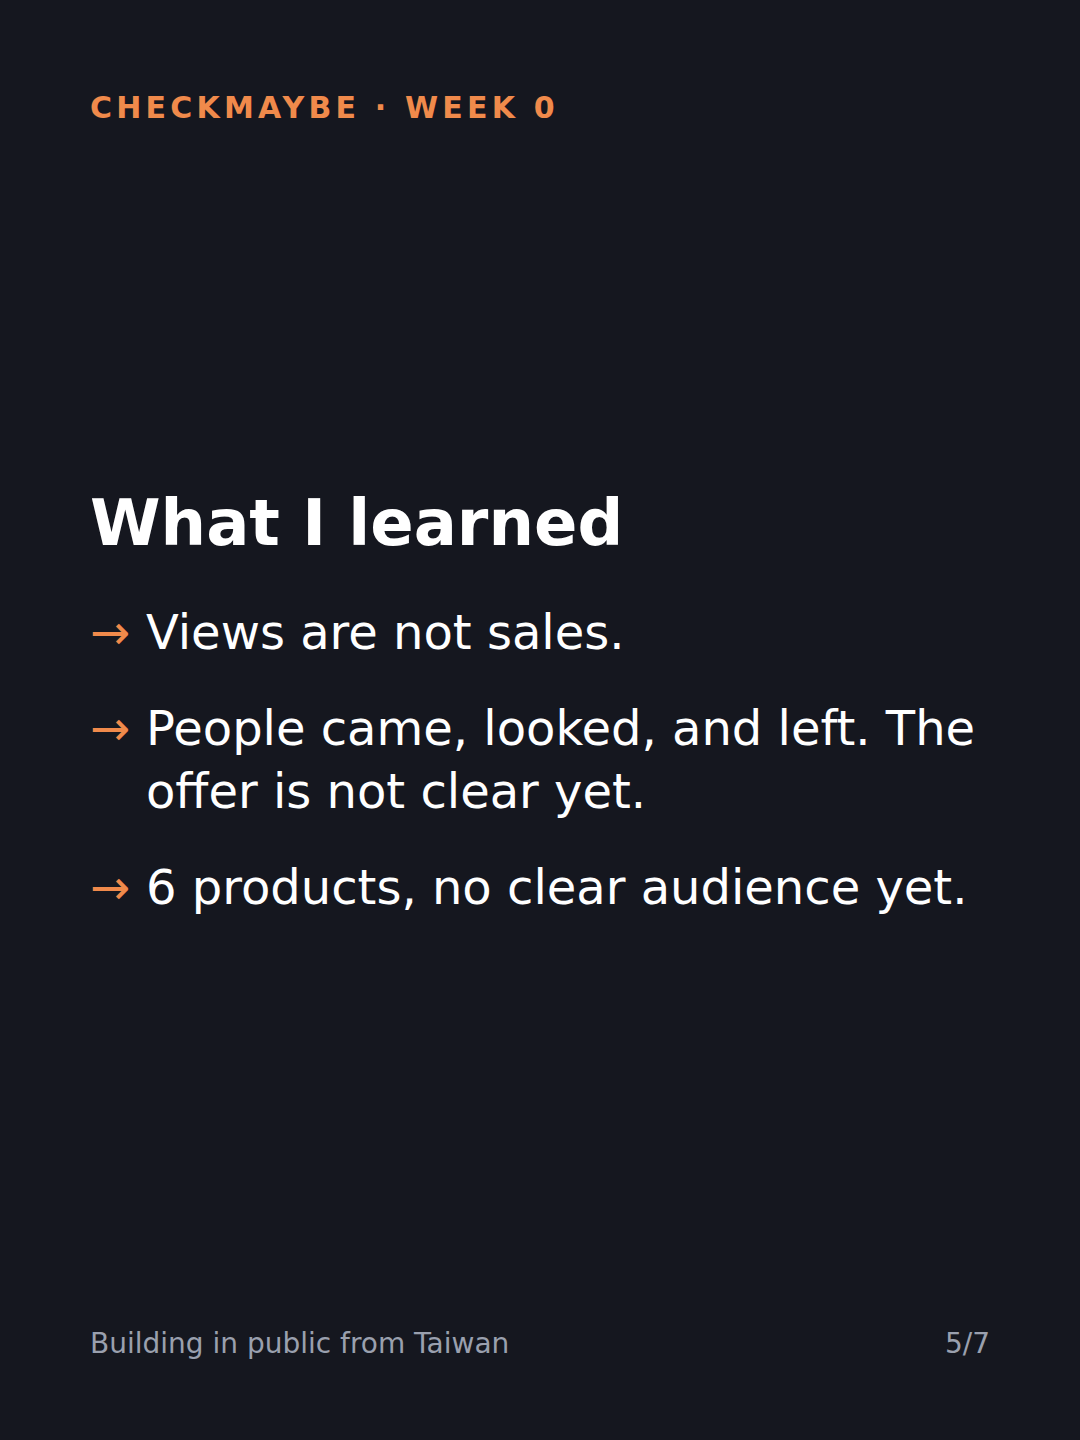
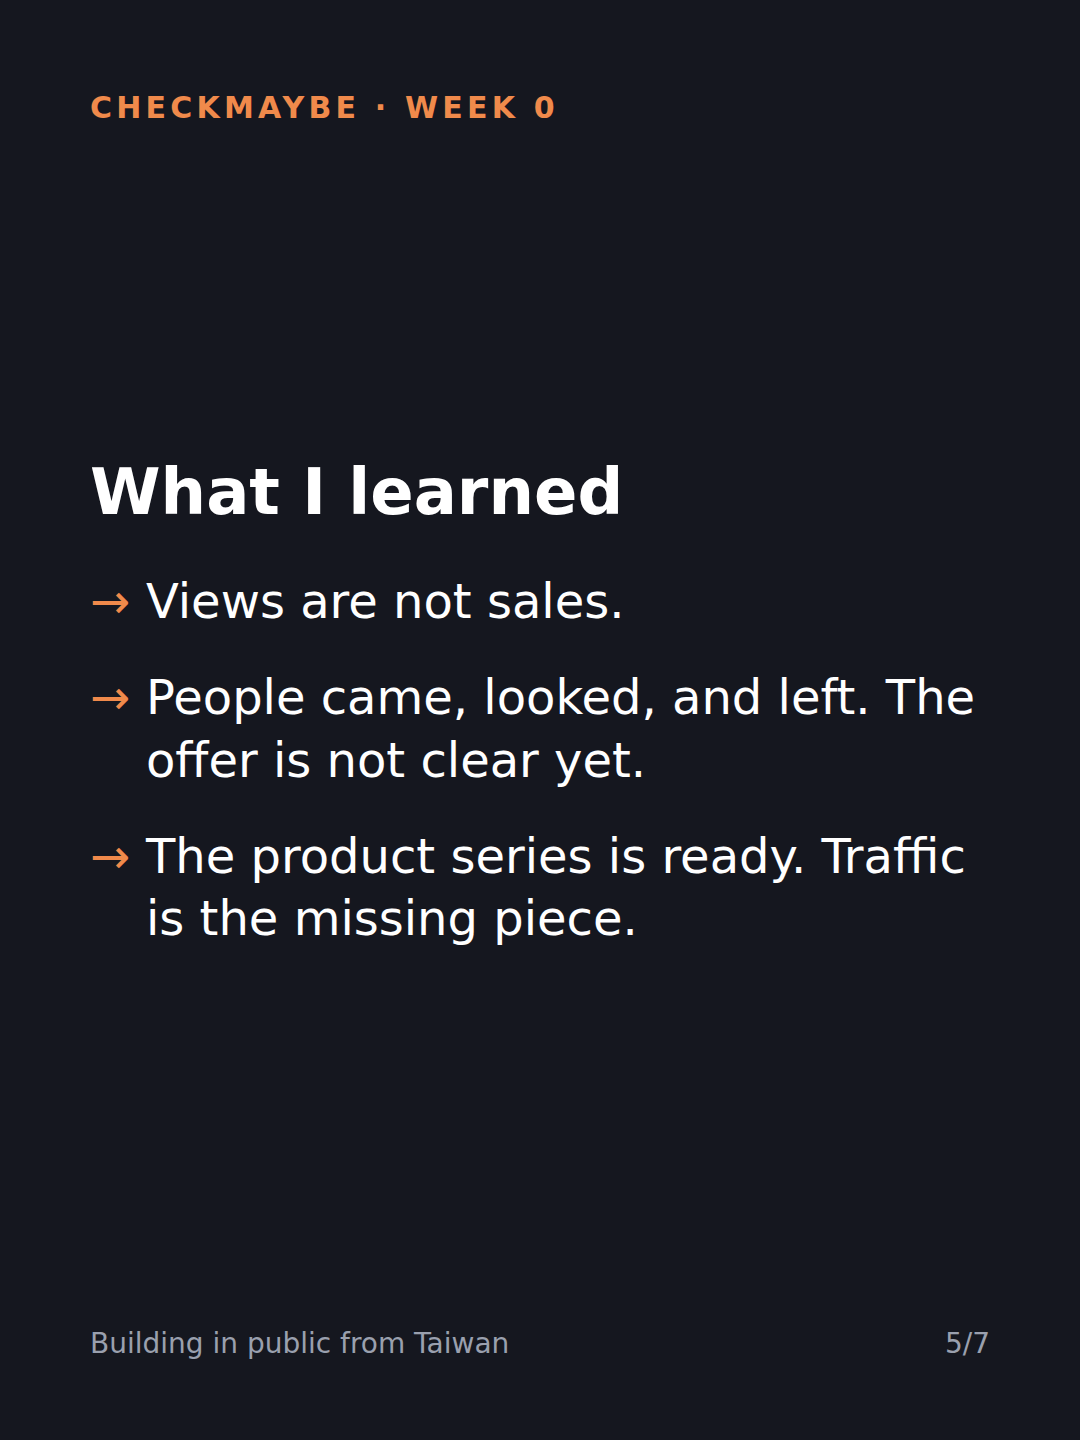
Week 0 carousel: say traffic, not product count, is the gap
Claude-Session: https://claude.ai/code/session_01C31xGpXxLcjXH3oTDRifkH

Changed region(s): [[0.0917, 0.4062, 0.8861, 0.6562], [0.0917, 0.3125, 0.5806, 0.375], [0.825, 0.4688, 0.9167, 0.5312]]

diff --git a/build-in-public/social/build_w40_social.py b/build-in-public/social/build_w40_social.py
@@ -20,7 +20,7 @@ carousel = [
  '<div class="big">33</div><div class="sub">page views</div><h2 style="margin-top:70px">0 sales. <span class="o">0 USD.</span></h2>',
  '<h2>Where the 33 views came from</h2><div style="margin-top:50px"><div class="row"><span>Direct, email, messages</span><b>16</b></div><div class="row"><span>Facebook</span><b>15</b></div><div class="row"><span>Threads</span><b>1</b></div><div class="row"><span>My own shop page</span><b>1</b></div></div><div class="sub">24 of 33 views: <span class="o">United States</span></div>',
  '<h2>What went wrong</h2><ul><li>Applied to my first affiliate network. <span class="o">Declined.</span></li><li>My first English Reel: <span class="o">5 views.</span></li><li>My first build-in-public post had typos.</li></ul>',
- '<h2>What I learned</h2><ul><li>Views are not sales.</li><li>People came, looked, and left. The offer is not clear yet.</li><li>6 products, no clear audience yet.</li></ul>',
+ '<h2>What I learned</h2><ul><li>Views are not sales.</li><li>People came, looked, and left. The offer is not clear yet.</li><li>The product series is ready. Traffic is the missing piece.</li></ul>',
  '<h1>Next week:<br><span class="o">one product,<br>one audience.</span></h1><div class="sub">Real numbers every Sunday.<br>Even the zeros. Follow along.</div>',
 ]
 reel = [
